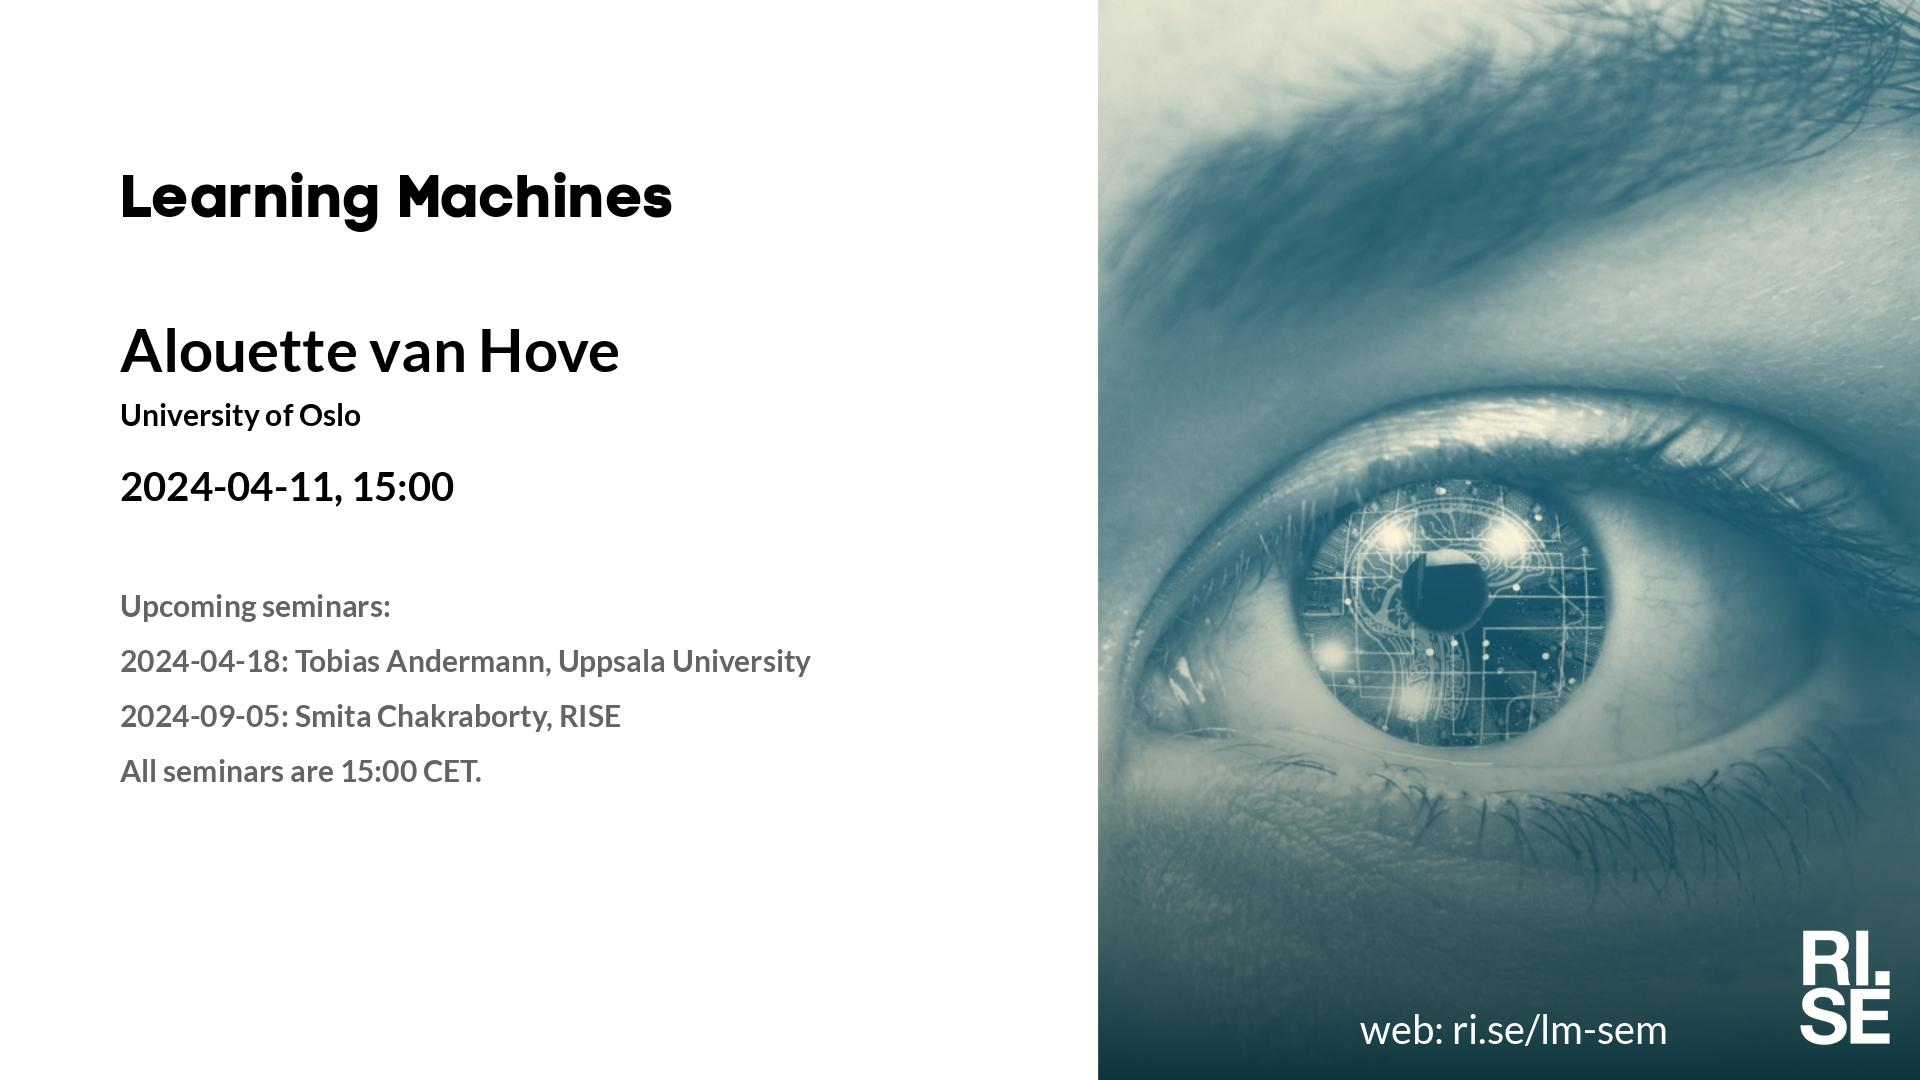
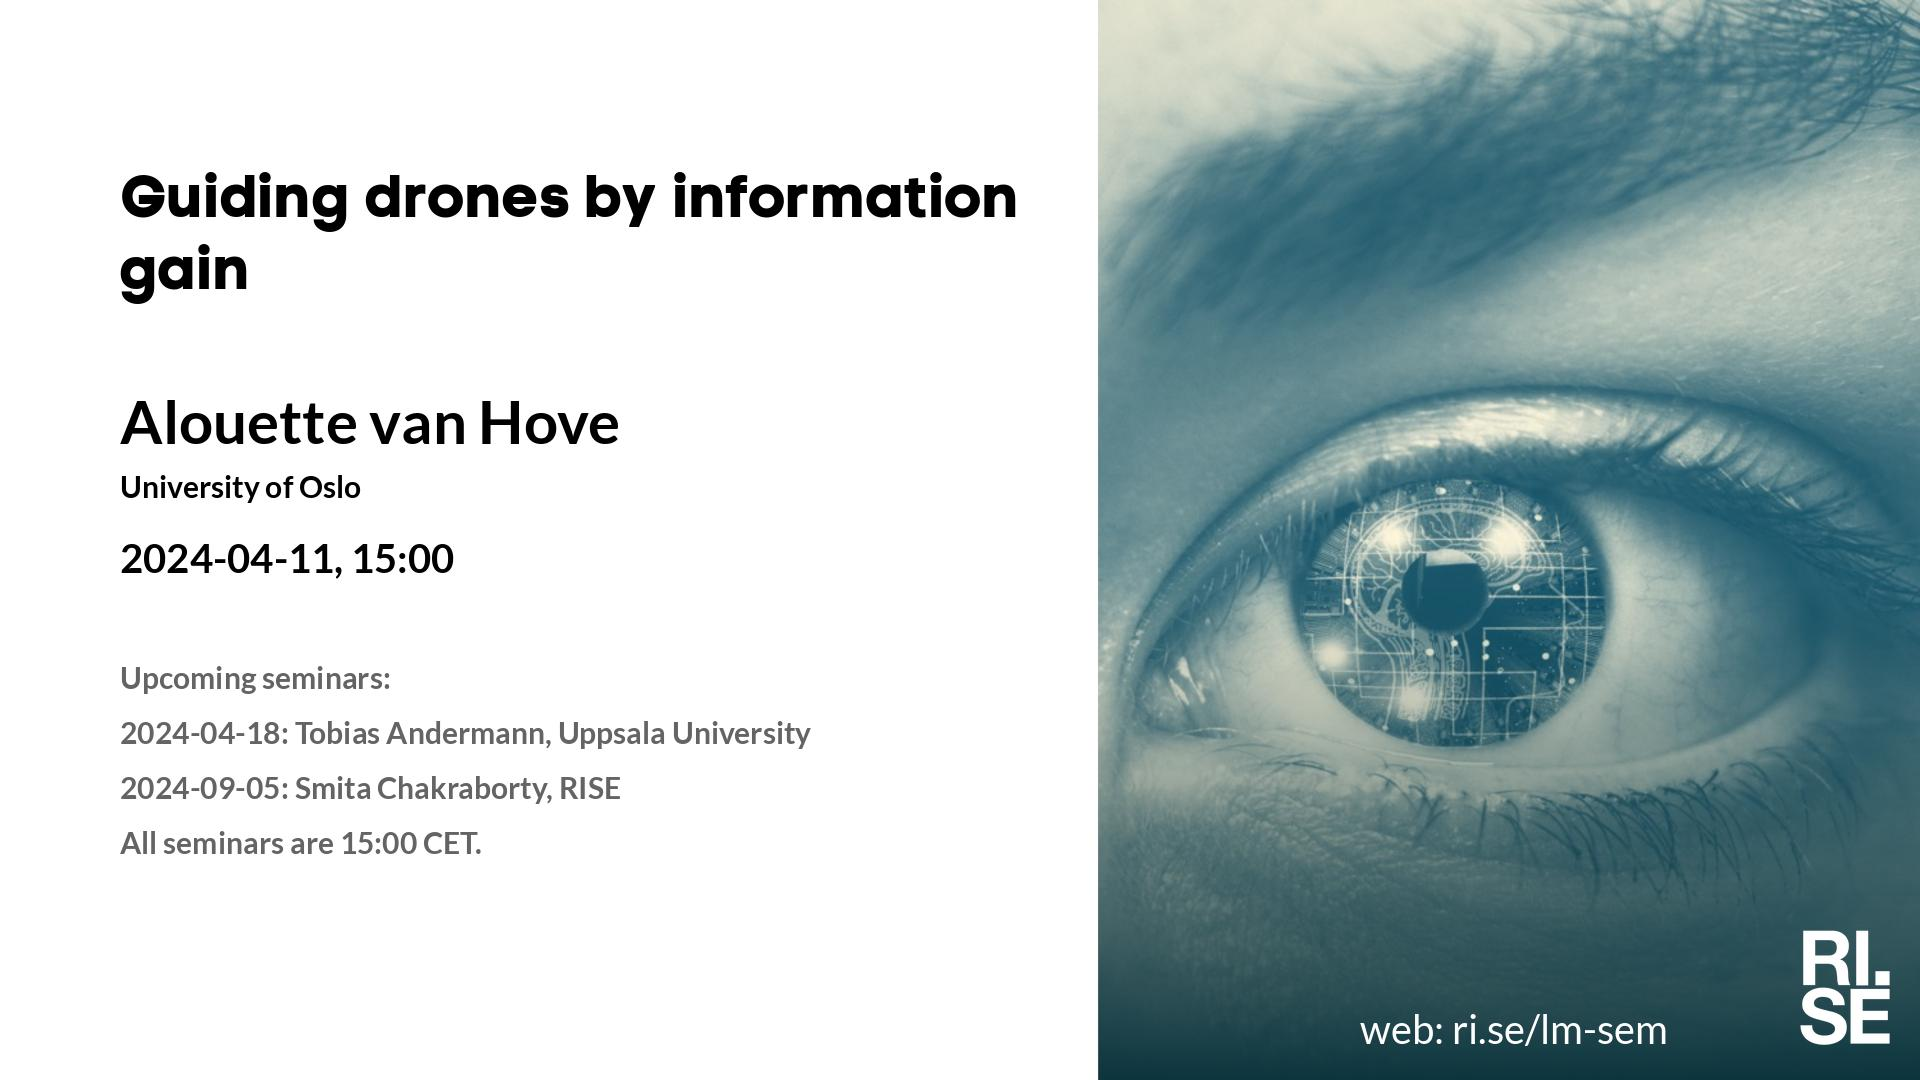
Updated plan on web site.

Changed region(s): [[0.0625, 0.3056, 0.4375, 0.7944], [0.0625, 0.1528, 0.5312, 0.275]]

diff --git a/lm/index.md b/lm/index.md
@@ -5,15 +5,14 @@ metatags: "<meta name=\"robots\" content=\"noindex,nofollow\" />"
 <style type="text/css" scoped>
 td, th {border: 1px solid #ccc; padding: 0.6em;}
 table {border-collapse: collapse;}
-</style># Learning Machines Plan 2024-03-27
+</style># Learning Machines Plan 2024-04-08
 
 | date | speaker                                   | photo | shareable | meeting backdrop | youtube thumbnail | <a title="Speaker, Title, Abstract, Bio, Photo. Strikethrough means we don't have it yet.">comment</a>        |
 | ---- | ----------------------------------------- | ----- | ----- | ----- | ----- | -------------- |
-|  2024-03-14  |  [Santiago Martinez Balvanera, University College London](2024-03-14.md)  |  [photo](photo-santiago-martinez-balvanera.jpg)  |  [social media ](social-media-santiago-martinez-balvanera.jpg)  |  [meeting backdrop ](meeting-backdrop-santiago-martinez-balvanera.jpg)  |  [youtube thumbnail ](youtube-thumbnail-santiago-martinez-balvanera.jpg)  |  STABP  |
 |  2024-03-21  |  [Fredrik Gustafsson, Karolinska Institutet](2024-03-21.md)  |  [photo](photo-fredrik-gustafsson.jpg)  |  [social media ](social-media-fredrik-gustafsson.jpg)  |  [meeting backdrop ](meeting-backdrop-fredrik-gustafsson.jpg)  |  [youtube thumbnail ](youtube-thumbnail-fredrik-gustafsson.jpg)  |  STABP  |
 |  2024-03-28  |  [Yonghao Xu, Linköping University](2024-03-28.md)  |  [photo](photo-yonghao-xu.jpg)  |  [social media ](social-media-yonghao-xu.jpg)  |  [meeting backdrop ](meeting-backdrop-yonghao-xu.jpg)  |  [youtube thumbnail ](youtube-thumbnail-yonghao-xu.jpg)  |  STABP  |
 |  2024-04-04  |  [Karsten Kreis, NVIDIA Research](2024-04-04.md)  |  [photo](photo-karsten-kreis.jpg)  |  [social media ](social-media-karsten-kreis.jpg)  |  [meeting backdrop ](meeting-backdrop-karsten-kreis.jpg)  |  [youtube thumbnail ](youtube-thumbnail-karsten-kreis.jpg)  |  STABP  |
-|  2024-04-11  |  [Alouette van Hove, University of Oslo](2024-04-11.md)  |  [photo](photo-alouette-van-hove.jpg)  |  [social media ](social-media-alouette-van-hove.jpg)  |  [meeting backdrop ](meeting-backdrop-alouette-van-hove.jpg)  |  [youtube thumbnail ](youtube-thumbnail-alouette-van-hove.jpg)  |  S~~TAB~~P  |
+|  2024-04-11  |  [Alouette van Hove, University of Oslo](2024-04-11.md)  |  [photo](photo-alouette-van-hove.jpg)  |  [social media ](social-media-alouette-van-hove.jpg)  |  [meeting backdrop ](meeting-backdrop-alouette-van-hove.jpg)  |  [youtube thumbnail ](youtube-thumbnail-alouette-van-hove.jpg)  |  STABP  |
 |  2024-04-18  |  [Tobias Andermann, Uppsala University](2024-04-18.md)  |  [photo](photo-tobias-andermann.png)  |  [social media ](social-media-tobias-andermann.jpg)  |  [meeting backdrop ](meeting-backdrop-tobias-andermann.jpg)  |  [youtube thumbnail ](youtube-thumbnail-tobias-andermann.jpg)  |  STABP  |
 | <span style="color:grey"> 2024-04-25 </span> | <span style="color:grey"> Milena P. ? </span> | <span style="color:grey">  </span> | <span style="color:grey">  </span> | <span style="color:grey">  </span> | <span style="color:grey">  </span> | <span style="color:grey"> S~~TABP~~ </span> |
 | <span style="color:red"> 2024-05-02 </span> | <span style="color:red"> ICLR </span> | <span style="color:red">  </span> | <span style="color:red">  </span> | <span style="color:red">  </span> | <span style="color:red">  </span> | <span style="color:red"> CANCELLED </span> |

diff --git a/lm/2024-04-11.md b/lm/2024-04-11.md
@@ -4,13 +4,15 @@ metatags: "<meta name=\"robots\" content=\"noindex,nofollow\" />"
 ---
 Welcome to this week's Learning Machines seminar.
 
-**Title:** N/A
+**Title:** Guiding drones by information gain
 
 **Speaker:** Alouette van Hove, University of Oslo
 
-**Abstract:** N/A
+**Abstract:** Accurately estimating the location and strength of greenhouse gas sources remains a significant challenge in climate science, contributing to uncertainties in climate change projections. To address this issue, we develop a novel framework using atmospheric observations acquired via drones to infer the source location and emission rate of gas plumes. Through Bayesian inference, our framework aims to enhance the precision of greenhouse gas flux estimates. Ultimately, our objective is to facilitate the validation and calibration of existing models and metrics, thereby improving the reliability of climate change projections.
 
-**About the speaker:** N/A
+One aspect of our framework’s development is finding the optimal sampling path for drones to collect informative data in unfamiliar environments. In this presentation, we explore two sampling strategies in a synthetic study.  Both strategies share a common goal: to maximize the information gained from sequential drone observations. We compare the nearsighted approach of infotaxis to a farsighted navigation strategy trained through deep reinforcement learning. Concluding the presentation, I will outline the subsequent steps in our research to implement the framework in real-world scenarios and discuss ongoing field experiments.
+
+**About the speaker:** Alouette van Hove is a Ph.D. student at the Department of Geosciences of the University of Oslo. She has a background in environmental science, aerospace engineering and software development. Her research focuses on reinforcement learning and Bayesian inference to estimate greenhouse gas fluxes using drone observations. She is interested in computational methods and the application of machine learning techniques to address environmental problems.
 
 **Location:** This is an online seminar. Connect using Zoom.
 
